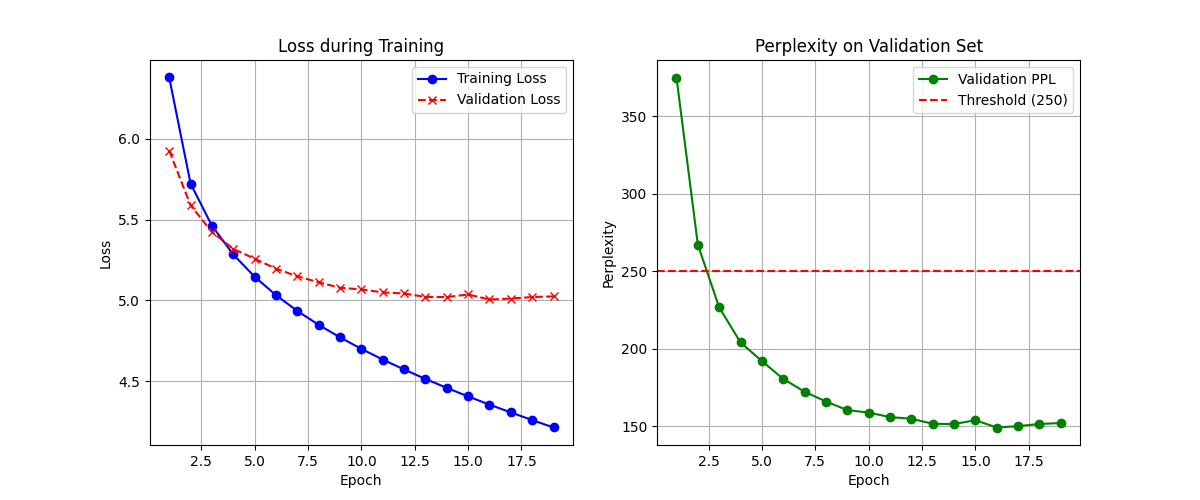
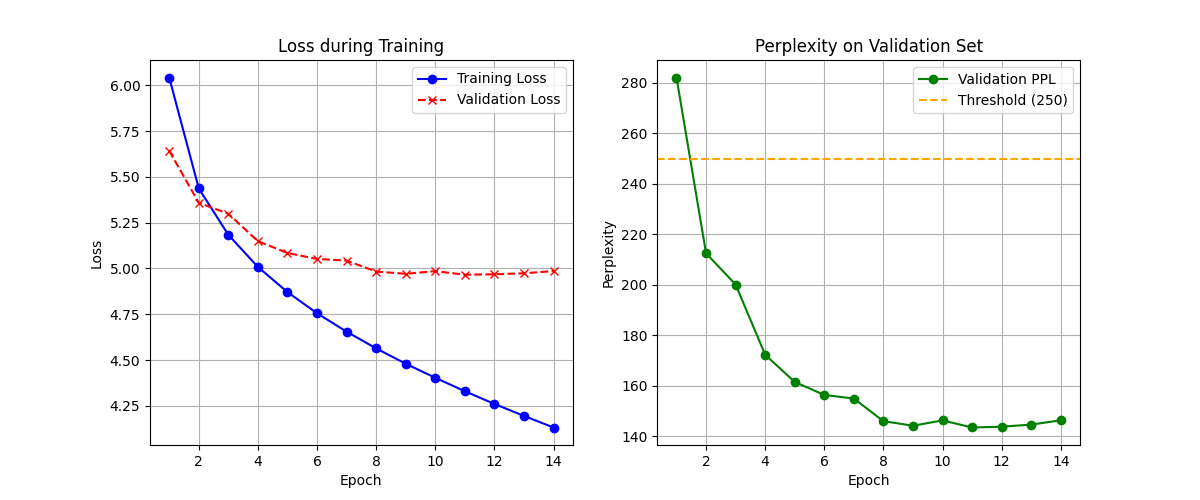
new values due to unavailable models of part 1A

diff --git a/LM/part_A/main.py b/LM/part_A/main.py
@@ -1,109 +1,104 @@
-# This file is used to run your functions and print the results
-# Please write your fuctions or classes in the functions.py
-
-# Import everything from functions.py file
+import itertools
 import torch.optim as optim
 from functions import *
 from utils import *
 import matplotlib.pyplot as plt
 from tqdm import tqdm
 import copy
-import curses
 import os
-import re
 from model import LM_LSTM
 
-DEVICE = 'cuda'
 DEBUG = False
 
-# * HYPERPARAMETERS ------
-hid_size = 400 #! MODIFY # default (400)
-emb_size = 300 #! MODIFY # default (300)
+USE_ADAM = False
+USE_DROPOUT = False
 
-lr = 1 #! MODIFY
-clip = 5 # Clip the gradient #? MODIFY (5)
+# Grid di valori da testare
+hid_sizes = [400]
+emb_sizes = [300]
+lrs = [0.5, 1.0, 2]
+lrs_adam = [0.00001, 0.0001, 0.001, 0.01]
+clips = [5]
+batch_sizes = [16, 32, 64]
+
 n_epochs = 100
-patience_init = 3 #? (3)
-training_batch_size = 64 #? (64)
-# * ------
+patience_init = 3
 
-if __name__ == "__main__":
-    #Wrtite the code to load the datasets and to run your functions
-    # Print the results
-    train_raw = read_file("../dataset/PennTreeBank/ptb.train.txt")
-    dev_raw = read_file("../dataset/PennTreeBank/ptb.valid.txt")
-    test_raw = read_file("../dataset/PennTreeBank/ptb.test.txt")
-    
-    vocab = get_vocab(train_raw, ["<pad>", "<eos>"])
-    
-    #print(len(vocab))
-    
-    lang = Lang(train_raw, ["<pad>", "<eos>"])
-    
-    # * DATA LOADING
+log_file_name = "training_log_vanilla.csv"
+
+# Dati
+train_raw = read_file("../dataset/PennTreeBank/ptb.train.txt")
+dev_raw = read_file("../dataset/PennTreeBank/ptb.valid.txt")
+test_raw = read_file("../dataset/PennTreeBank/ptb.test.txt")
+vocab = get_vocab(train_raw, ["<pad>", "<eos>"])
+lang = Lang(train_raw, ["<pad>", "<eos>"])
+vocab_len = len(lang.word2id)
+
+# Ricerca combinazioni
+best_ppl = float('inf')
+best_config = None
+
+i=0
+total_combinations = len(hid_sizes) * len(emb_sizes) * len(lrs) * len(clips) * len(batch_sizes)
+
+for hid_size, emb_size, lr, clip, training_batch_size in itertools.product(hid_sizes, emb_sizes, lrs, clips, batch_sizes):
+    print(f"\n🔍 Testing config {i}/{total_combinations}: hid={hid_size}, emb={emb_size}, lr={lr}, clip={clip}, batch={training_batch_size}")
     
     train_dataset = PennTreeBank(train_raw, lang)
     dev_dataset = PennTreeBank(dev_raw, lang)
     test_dataset = PennTreeBank(test_raw, lang)
     
-    # batch sizes: 64, 128, 128
     train_loader = DataLoader(train_dataset, batch_size=training_batch_size, collate_fn=partial(collate_fn, pad_token=lang.word2id["<pad>"]),  shuffle=True)
     dev_loader = DataLoader(dev_dataset, batch_size=128, collate_fn=partial(collate_fn, pad_token=lang.word2id["<pad>"]))
     test_loader = DataLoader(test_dataset, batch_size=128, collate_fn=partial(collate_fn, pad_token=lang.word2id["<pad>"]))
+
+    model = LM_LSTM(emb_size, hid_size, vocab_len, pad_index=lang.word2id["<pad>"], use_dropout=USE_DROPOUT)
+    model.to('cuda')
     
-    # * MODEL SETUP*
-    vocab_len = len(lang.word2id)
-    
-    if DEBUG:
-        DEVICE = 'cpu'
-    
-    model = LM_LSTM(emb_size, hid_size, vocab_len, pad_index=lang.word2id["<pad>"]).to(DEVICE)
-    model.apply(init_weights)
-    
-    optimizer = optim.SGD(model.parameters(), lr=lr)
+    if USE_ADAM:
+        optimizer = optim.AdamW(model.parameters(), lr=lr)
+    else:
+        optimizer = optim.SGD(model.parameters(), lr=lr)
     criterion_train = nn.CrossEntropyLoss(ignore_index=lang.word2id["<pad>"])
     criterion_eval = nn.CrossEntropyLoss(ignore_index=lang.word2id["<pad>"], reduction='sum')
-    
-    # * TRAINING
 
-    
-    losses_train = []
-    losses_dev = []
-    ppls_dev = []
-    sampled_epochs = []
-    best_ppl = math.inf
+    losses_train, losses_dev, ppls_dev, sampled_epochs = [], [], [], []
     best_model = None
     patience = patience_init
-    
-    
-    print(f"hidden layers: {hid_size}, emb_size: {emb_size}, lr: {lr}, clip: {clip}, patience: {patience}, batch size: {training_batch_size}")
-    pbar = tqdm(range(1,n_epochs))
-    
-    #If the PPL is too high try to change the learning rate
-    for epoch in pbar:
-        loss = train_loop(train_loader, optimizer, criterion_train, model, clip)    
+    local_best_ppl = float('inf')
+
+    for epoch in tqdm(range(1, n_epochs)):
+        loss = train_loop(train_loader, optimizer, criterion_train, model, clip)
         if epoch % 1 == 0:
             sampled_epochs.append(epoch)
             losses_train.append(np.asarray(loss).mean())
             ppl_dev, loss_dev = eval_loop(dev_loader, criterion_eval, model)
             losses_dev.append(np.asarray(loss_dev).mean())
             ppls_dev.append(ppl_dev)
-            pbar.set_description("PPL: %f" % ppl_dev)
-            if  ppl_dev < best_ppl: # the lower, the better
-                best_ppl = ppl_dev
-                best_model = copy.deepcopy(model).to('cpu')
-                patience = 3
+            if ppl_dev < local_best_ppl:
+                local_best_ppl = ppl_dev
+                best_model = copy.deepcopy(model).to('cuda')
+                patience = patience_init
             else:
                 patience -= 1
-                
-            if patience <= 0: # Early stopping with patience
-                break # Not nice but it keeps the code clean
-    
+            if patience <= 0:
+                break
 
-    best_model.to(DEVICE)
-    final_ppl,  _ = eval_loop(test_loader, criterion_eval, best_model)    
-    print('Test ppl: ', final_ppl)
-    
-    model_id = want_to_save_model(best_model) # to choose whether to save the model
+    # Test finale
+    best_model.to('cuda')
+    final_ppl, _ = eval_loop(test_loader, criterion_eval, best_model)
+    print(f"✅ Final Test PPL: {final_ppl:.3f}")
+
+    # Salvataggio
+    model_id = want_to_save_model(best_model)
     save_training_plot(losses_train, losses_dev, ppls_dev, f"plots/training_plot_{model_id}.png")        
-    save_log_csv(model_id, hid_size, emb_size, lr, clip, n_epochs, patience_init, ppl_dev, final_ppl)
+    save_log_csv(model_id, hid_size, emb_size, lr, clip, n_epochs, patience_init, local_best_ppl, final_ppl, log_file=log_file_name)
+
+    # Aggiorna migliore config
+    if final_ppl < best_ppl:
+        best_ppl = final_ppl
+        best_config = (hid_size, emb_size, lr, clip, training_batch_size)
+
+print("\n🏆 --- BEST CONFIGURATION FOUND ---")
+print(f"Hidden size: {best_config[0]}, Emb size: {best_config[1]}, LR: {best_config[2]}, Clip: {best_config[3]}, Batch size: {best_config[4]}")
+print(f"Best Final Test Perplexity: {best_ppl:.3f}")

diff --git a/LM/part_A/model.py b/LM/part_A/model.py
@@ -7,23 +7,35 @@ import numpy as np
         
 class LM_LSTM(nn.Module):
     def __init__(self, emb_size, hidden_size, output_size, pad_index=0, out_dropout=0.1,
-                 emb_dropout=0.1, n_layers=1):
+                 emb_dropout=0.1, n_layers=1, use_dropout=False):
         super(LM_LSTM, self).__init__()
+        
+        self.use_dropout = use_dropout
         # Token ids to vectors, we will better see this in the next lab
         self.embedding = nn.Embedding(output_size, emb_size, padding_idx=pad_index)
         
-        self.dopout1 = nn.Dropout(emb_dropout)
+        if self.use_dropout:
+            self.dopout1 = nn.Dropout(emb_dropout)
+            
         # Pytorch's RNN layer: https://pytorch.org/docs/stable/generated/torch.nn.RNN.html
-        self.lstm = nn.RNN(emb_size, hidden_size, n_layers, bidirectional=False, batch_first=True)
+        self.lstm = nn.LSTM(emb_size, hidden_size, n_layers, bidirectional=False, batch_first=True)
         self.pad_token = pad_index
+        
+        if self.use_dropout:
+            self.dopout2 = nn.Dropout(out_dropout)
+        
         # Linear layer to project the hidden layer to our output space
-        self.dopout2 = nn.Dropout(out_dropout)
         self.output = nn.Linear(hidden_size, output_size)
 
     def forward(self, input_sequence):
         emb = self.embedding(input_sequence)
-        #drop_out = self.dopout1(emb)
+        if self.use_dropout:
+            emb = self.dopout1(emb)
+        
         rnn_out, _  = self.lstm(emb)
-        #drop_out2 = self.dopout2(rnn_out)
+        
+        if self.use_dropout:
+            rnn_out = self.dopout2(rnn_out)
+        
         output = self.output(rnn_out).permute(0,2,1)
         return output

diff --git a/LM/part_A/utils.py b/LM/part_A/utils.py
@@ -126,7 +126,7 @@ def collate_fn(data, pad_token):
 
 # * TO SAVE THE MODEL AFTER THE EVALUATION
 
-save_dir = "bin"
+save_dir = "models"
 
 # Fancy selection menu
 def menu(stdscr):
@@ -182,12 +182,17 @@ def want_to_save_model(model):
 
 # * TO STORE LOG (configuration and performance of each training)
 
-def save_log_csv(model_id=0, hidden_size=None, emb_size=None, learning_rate=None, clip=None, epochs=0, patience=0, dev_ppl=0, final_ppl=0, log_file='training_log_drop.csv'):
+def save_log_csv(model_id=0, hidden_size=None, emb_size=None, learning_rate=None, clip=None, epochs=0, patience=0, dev_ppl=0, final_ppl=0, log_file='training_log_vanilla.csv'):
     # Definisce i nomi delle colonne
     fieldnames = ['Model ID', 'Hidden Size', 'Embedding Size', 'Learning Rate', 'Gradient Clip', 'Epochs', 'Patience', 'Dev PPL', 'Final PPL']
 
     # Verifica se il file esiste già
     file_exists = os.path.exists(log_file)
+    if not file_exists:
+        # Se il file non esiste, crea un nuovo file CSV e scrivi l'intestazione
+        with open(log_file, mode='w', newline='') as f:
+            writer = csv.DictWriter(f, fieldnames=fieldnames)
+            writer.writeheader()
 
     # Dati da salvare
     log_entry = {
